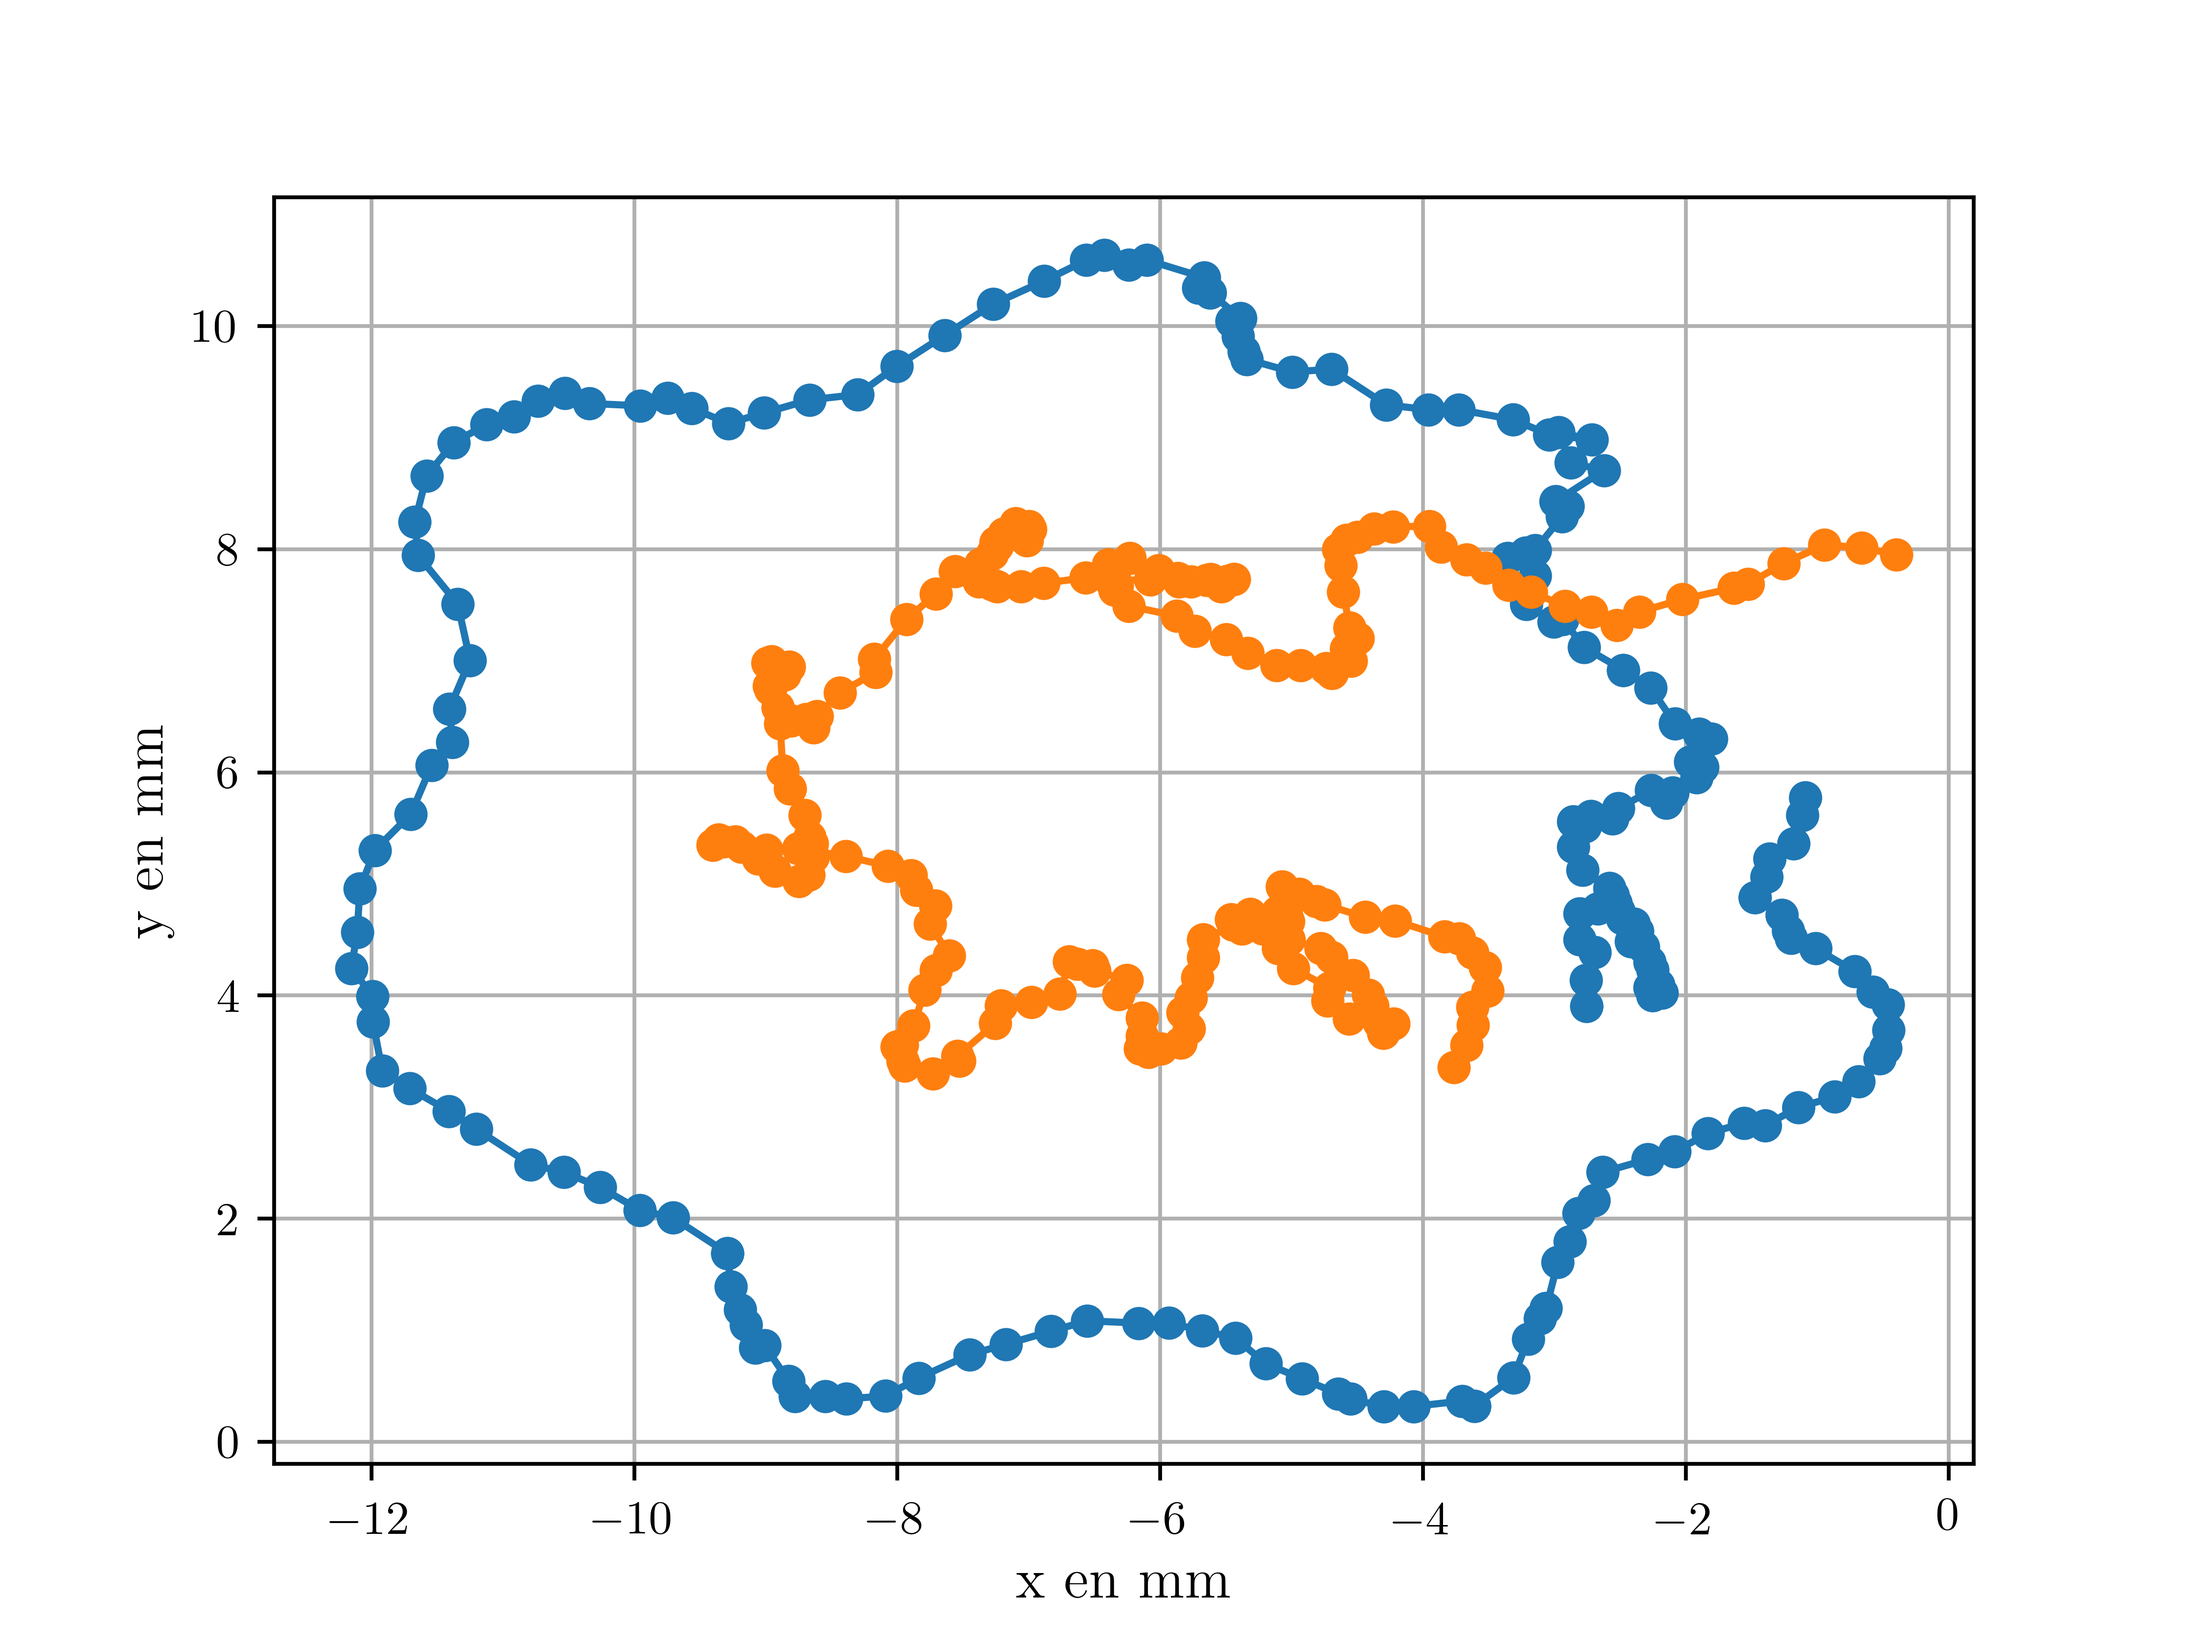
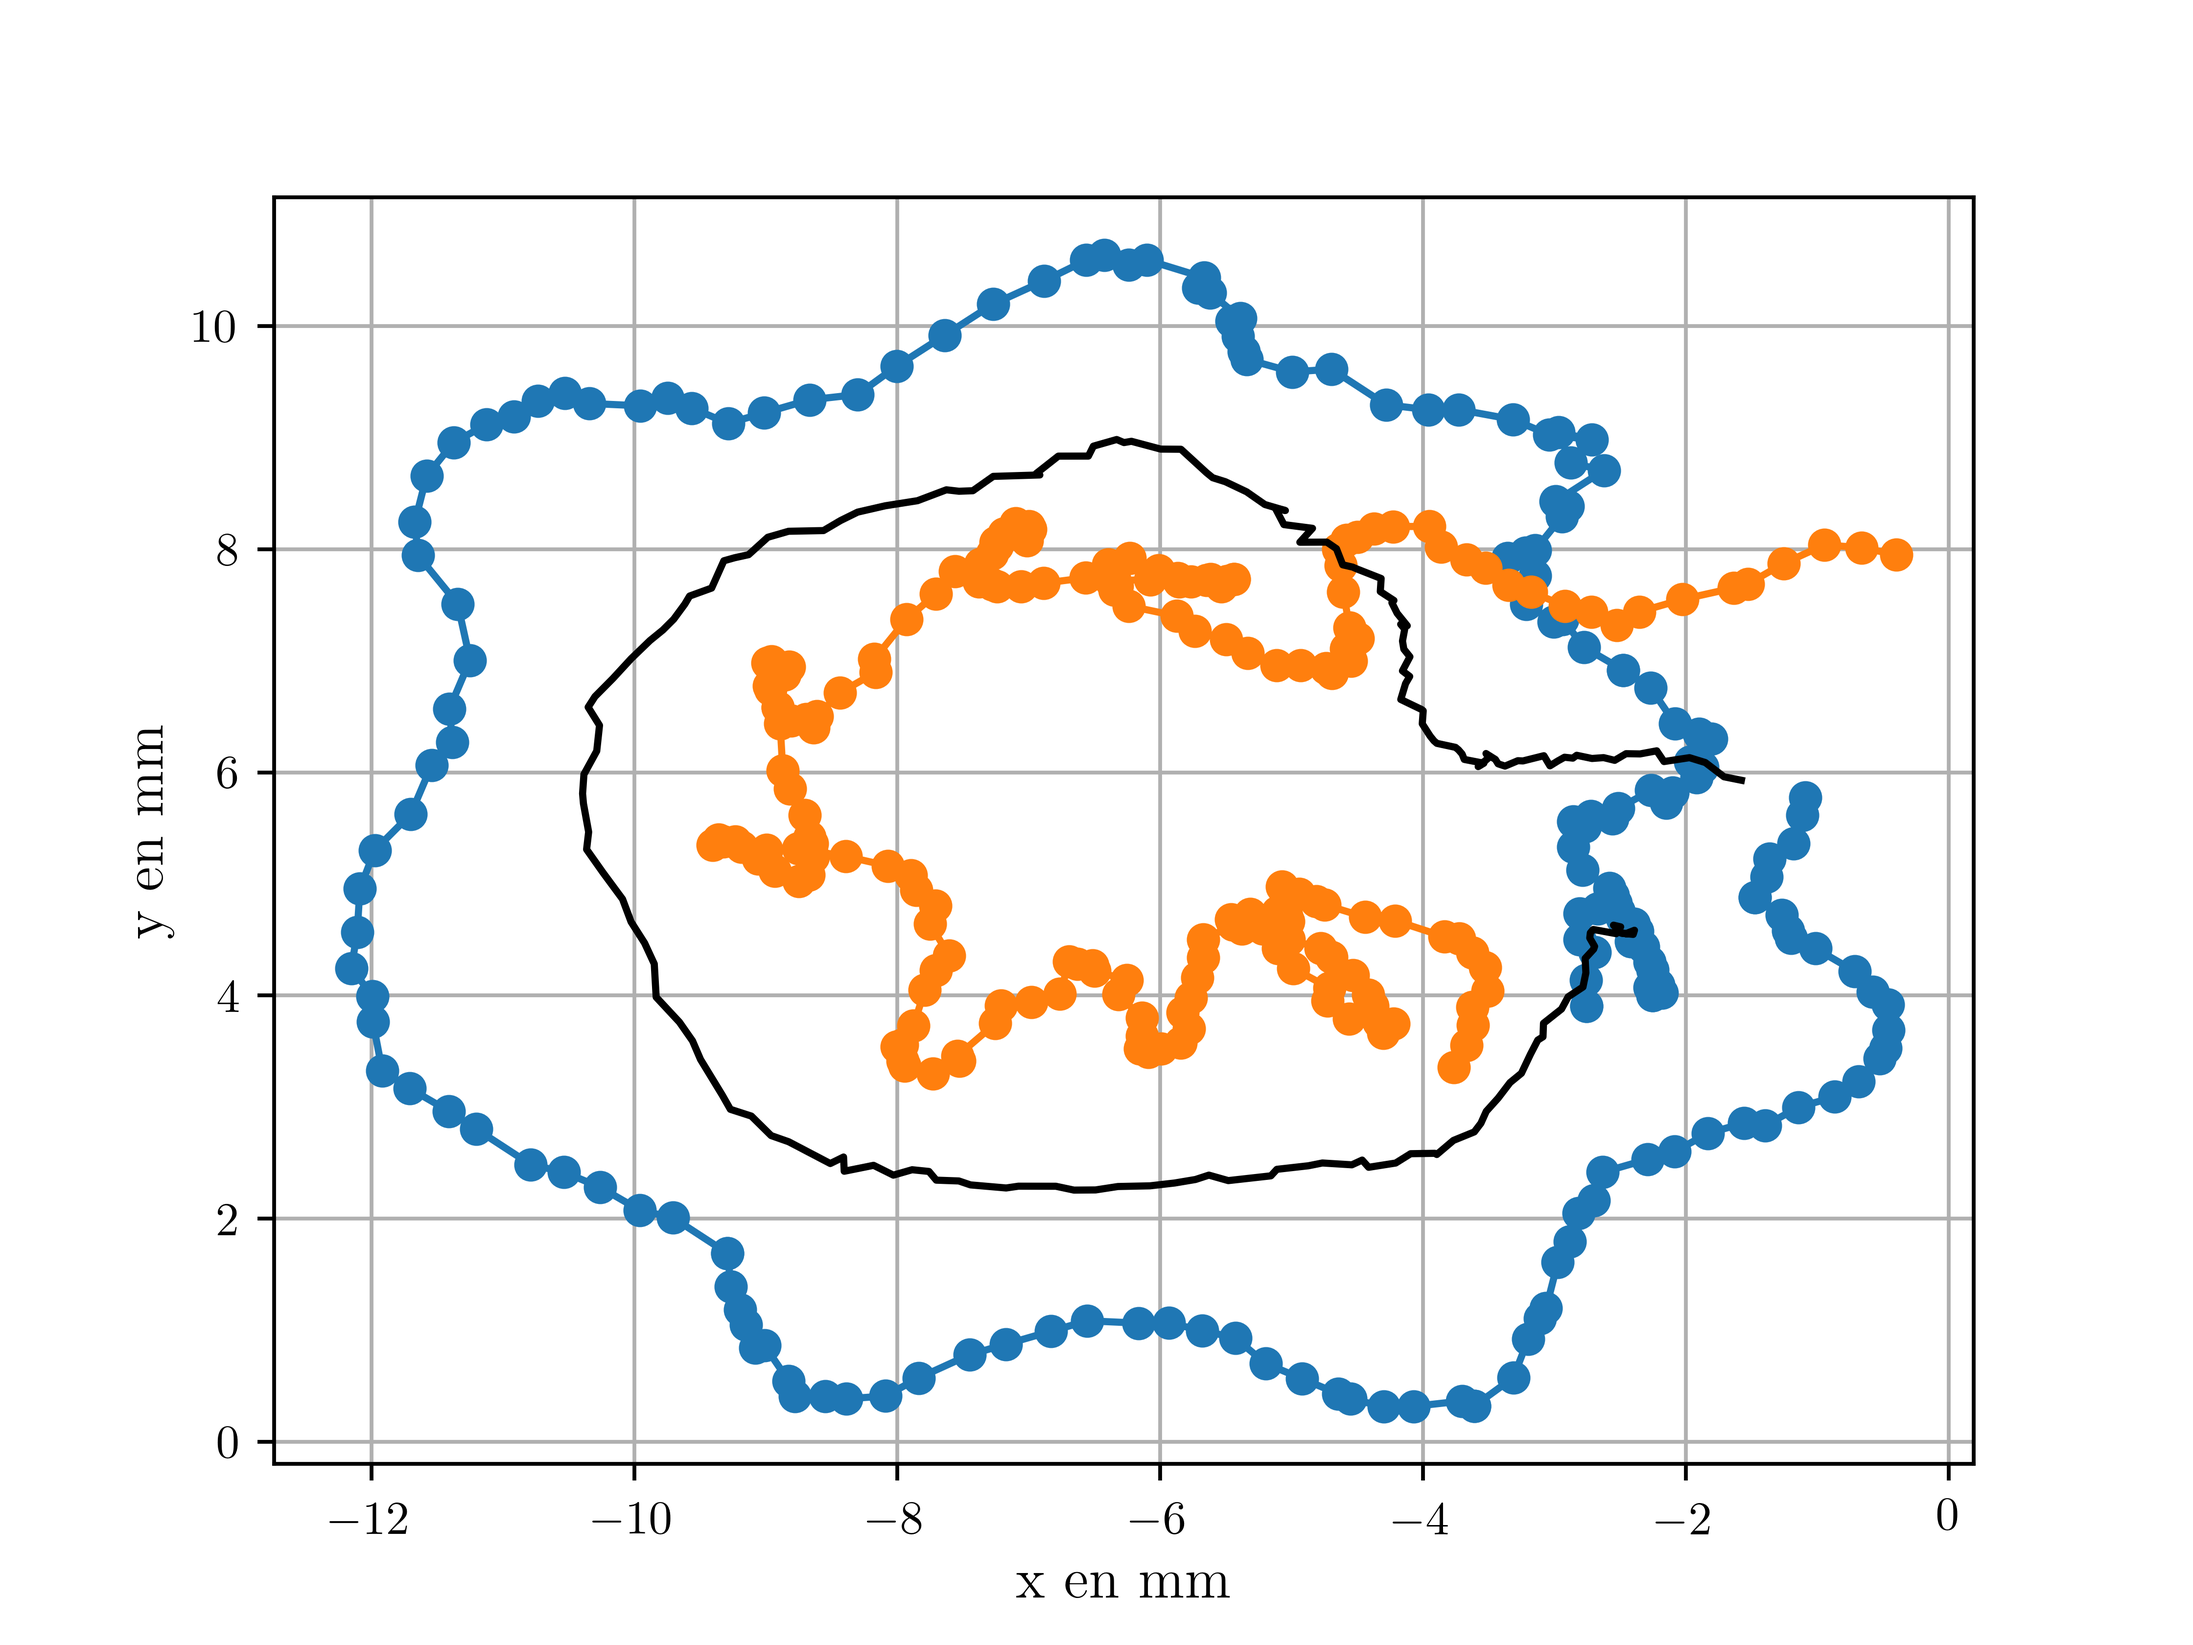
lun. 8 avril 12:44

diff --git a/Data/graphs/Traj.py b/Data/graphs/Traj.py
@@ -48,10 +48,12 @@ Y2	= Data[start:,2];
 
 plot(X2,Y2,'-o');
 
+plot((X2+X1)/2,(Y2+Y1)/2,'k-', label = "Centre de masse");
+
 set_xlabel(r'x en mm', fontsize=12);
 set_ylabel(r'y en mm', fontsize=12);
 
-#plt.legend();
+plt.legend();
 grid(True);
 plt.savefig('Traj1.png', dpi=700);
 
@@ -85,8 +87,9 @@ plot(X2,Y2,'-o');
 set_xlabel(r'x en mm', fontsize=12);
 set_ylabel(r'y en mm', fontsize=12);
 
-#plt.legend();
+plt.legend();
 grid(True);
+
 plt.savefig('Traj2.png', dpi=700);
 
 show();
@@ -100,7 +103,7 @@ plot(T,R,'-x');
 
 set_xlabel(r'Temps en s', fontsize=12);
 set_ylabel(r'Diamètre en mm', fontsize=12);
-
+plt.legend();
 plt.savefig('Distraj2.png', dpi=700);
 
 show();
@@ -111,12 +114,14 @@ f = 200;
 plot(X1[i:f],Y1[i:f],'-o');
 plot(X2[i:f],Y2[i:f],'-o');
 
+plot((X2[i:f]+X1[i:f])/2,(Y2[i:f]+Y1[i:f])/2,'k-', label = "Centre de masse");
+
 set_xlabel(r'x en mm', fontsize=12);
 set_ylabel(r'y en mm', fontsize=12);
 grid(True);
 plt.savefig('Trot.png', dpi=700);
 show();
-
+plt.legend();
 plot(T[i:f]-T[i],R[i:f],'-x');
 
 set_xlabel(r'Temps en s', fontsize=12);
@@ -131,9 +136,12 @@ f = -1;
 plot(X1[i:f],Y1[i:f],'-o');
 plot(X2[i:f],Y2[i:f],'-o');
 
+plot((X2[i:f]+X1[i:f])/2,(Y2[i:f]+Y1[i:f])/2,'k-', label = "Centre de masse");
+
 set_xlabel(r'x en mm', fontsize=12);
 set_ylabel(r'y en mm', fontsize=12);
 grid(True);
+plt.legend();
 plt.savefig('Straj.png', dpi=700);
 show();
 
